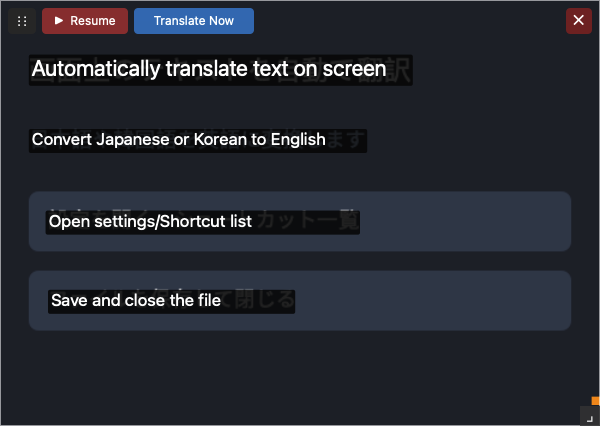
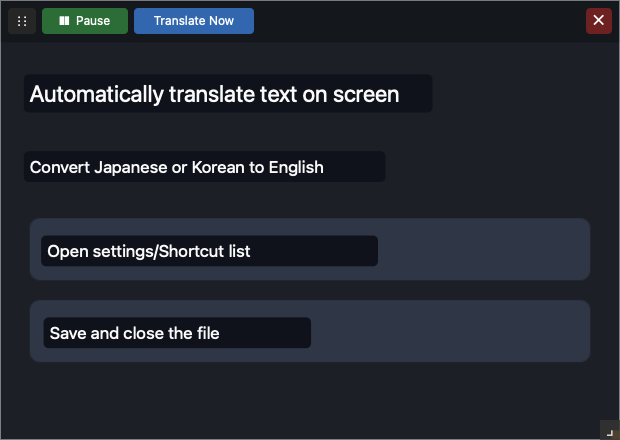
fix: harden Screen Translator, update live OpenRouter models, fix /chat prompt forwarding & UI polish

diff --git a/openrouter_tts.py b/openrouter_tts.py
@@ -11,8 +11,8 @@ import os
 # Override via env: TTS_MODEL, TTS_VOICE, OPENROUTER_REFERER
 # List models:  curl "https://openrouter.ai/api/v1/models?output_modalities=speech"
 TTS_URL = "https://openrouter.ai/api/v1/audio/speech"
-DEFAULT_MODEL = "qwen/qwen-audio-3.0-tts-flash"
-DEFAULT_VOICE = "loongjohn"  # other option for this model: longanhuan_v3.6
+DEFAULT_MODEL = "google/gemini-2.5-flash-tts"
+DEFAULT_VOICE = "Kore"
 DEFAULT_REFERER = os.environ.get("OPENROUTER_REFERER", "https://github.com/64blit/hammerspoon-powerhouse")
 
 MP3_PATH = "/tmp/hammerspoon_openrouter_tts.mp3"
